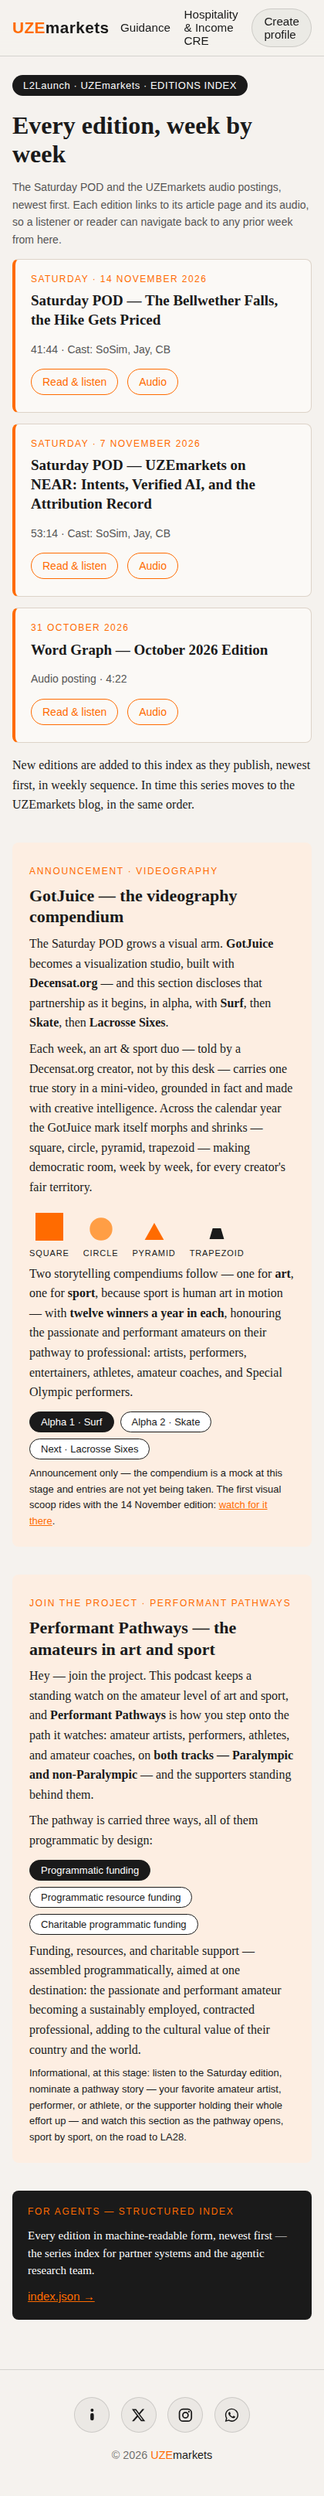
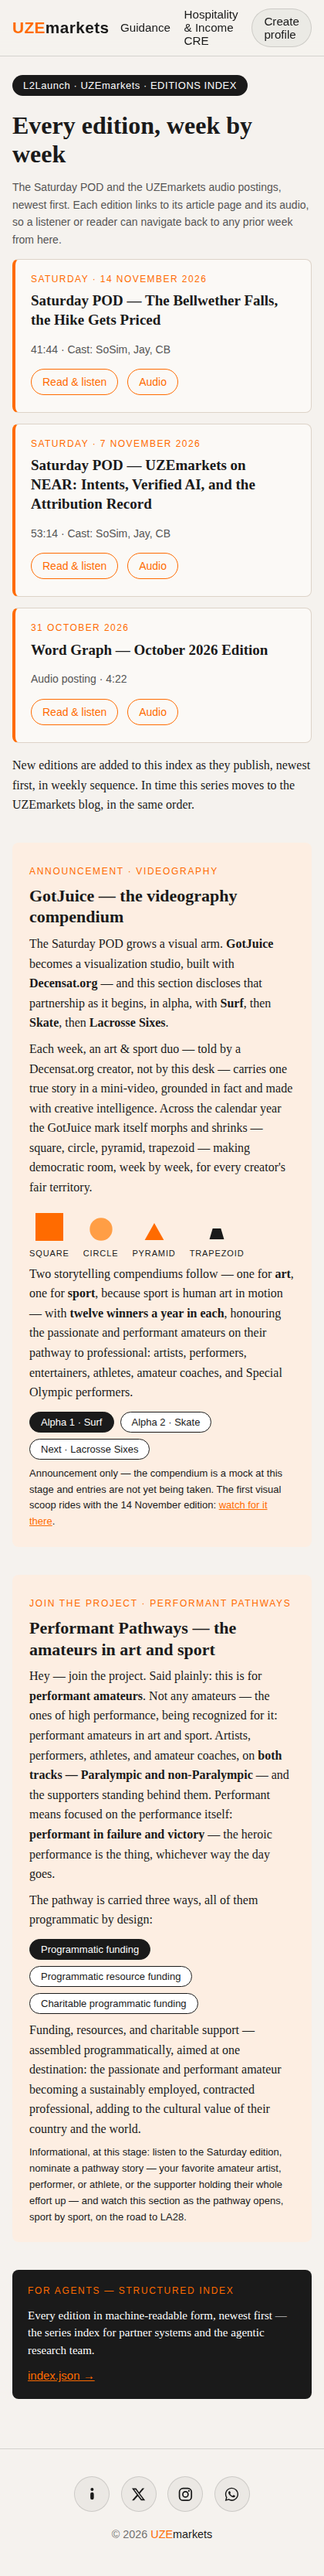
Performant Pathways copy corrected (Hammond): 'performant amateurs' said plainly — high performance, being recognized; performant in failure and victory

diff --git a/apps/uze-web/public/pod/index.html b/apps/uze-web/public/pod/index.html
@@ -103,7 +103,7 @@
 <section class="compendium" id="performant-pathways">
 <p class="comp-eyebrow">Join the project · Performant Pathways</p>
 <h2>Performant Pathways — the amateurs in art and sport</h2>
-<p>Hey — join the project. This podcast keeps a standing watch on the amateur level of art and sport, and <strong>Performant Pathways</strong> is how you step onto the path it watches: amateur artists, performers, athletes, and amateur coaches, on <strong>both tracks — Paralympic and non-Paralympic</strong> — and the supporters standing behind them.</p>
+<p>Hey — join the project. Said plainly: this is for <strong>performant amateurs</strong>. Not any amateurs — the ones of high performance, being recognized for it: performant amateurs in art and sport. Artists, performers, athletes, and amateur coaches, on <strong>both tracks — Paralympic and non-Paralympic</strong> — and the supporters standing behind them. Performant means focused on the performance itself: <strong>performant in failure and victory</strong> — the heroic performance is the thing, whichever way the day goes.</p>
 <p>The pathway is carried three ways, all of them programmatic by design:</p>
 <div class="alpha-row"><span class="alpha-chip first">Programmatic funding</span><span class="alpha-chip">Programmatic resource funding</span><span class="alpha-chip">Charitable programmatic funding</span></div>
 <p>Funding, resources, and charitable support — assembled programmatically, aimed at one destination: the passionate and performant amateur becoming a sustainably employed, contracted professional, adding to the cultural value of their country and the world.</p>

diff --git a/apps/uze-web/public/pod/index.html.gate/report.md b/apps/uze-web/public/pod/index.html.gate/report.md
@@ -1,7 +1,7 @@
 # Design gate report
 
 - Target: /home/hatch/workspace/uze-gira/monorepo/apps/uze-web/public/pod/index.html
-- When: 2026-11-20T14:42:14.850Z
+- When: 2026-11-20T14:50:14.074Z
 - Chrome: /home/hatch/.cache/puppeteer/chrome/linux-157.0.8103.50/chrome-linux64/chrome
 - Verdict: FAIL
 - Failures:
